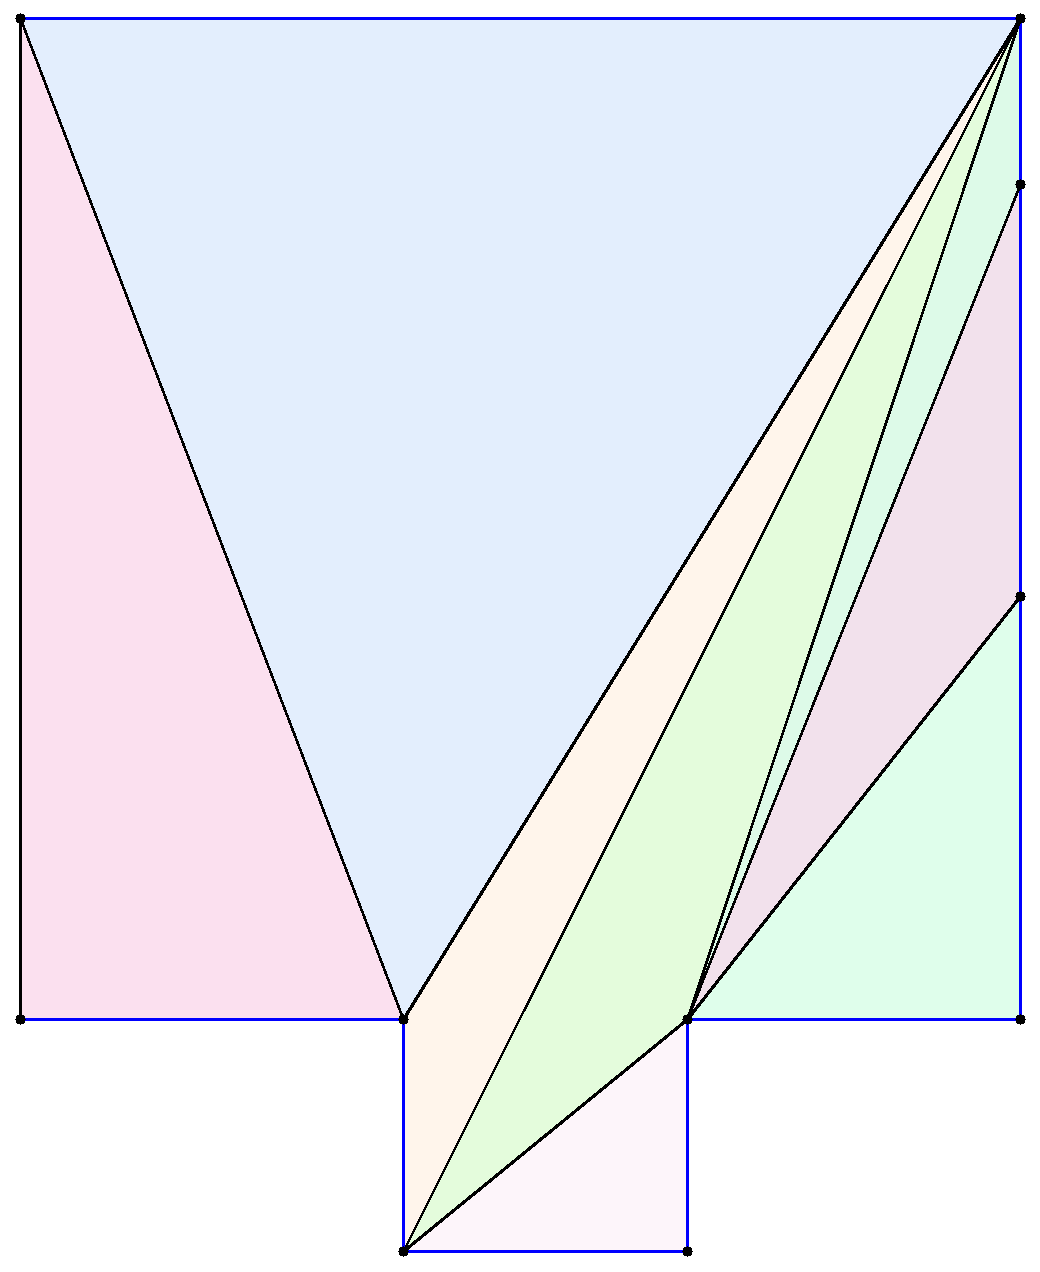
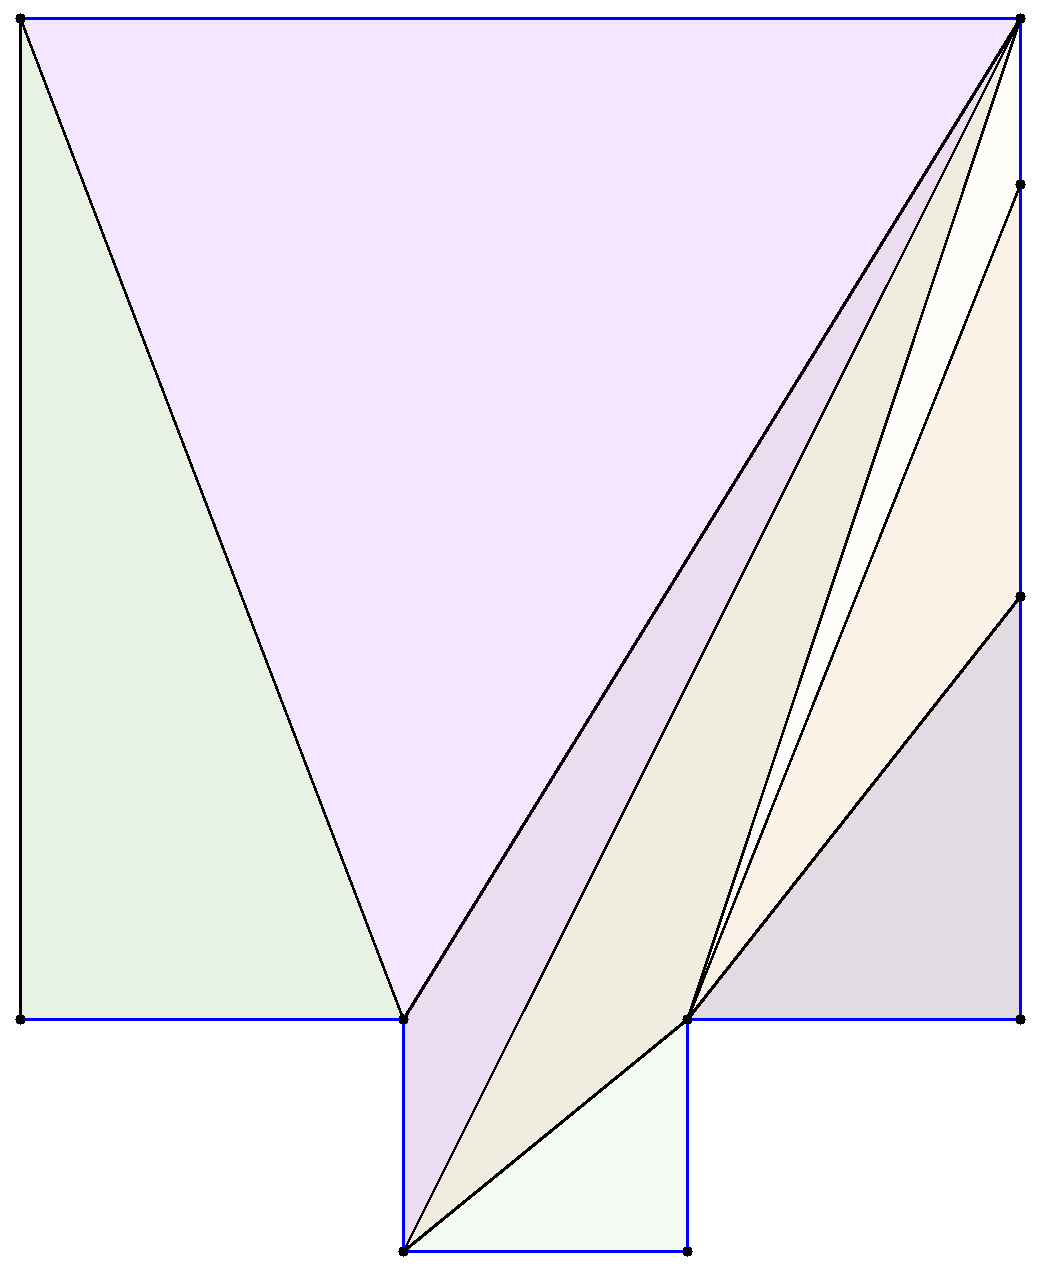
update drawing const edges

Changed region(s): [[0.3692, 0.0307, 0.9846, 0.9811]]

diff --git a/data.cpp b/data.cpp
@@ -10,12 +10,11 @@ bool Point::operator==(const Point& _p) {
 	return (this->x == _p.x) && (this->y == _p.y);
 }
 
-<<<<<<< HEAD
 std::ostream& operator<<(std::ostream& out, const Point& _p){
 	out << "(" << _p.x << ", " << _p.y << ")";
 	return out;
 }
-=======
+
 bool Point::operator!=(const Point&_p) {
 	return (this->x != _p.x) || (this->y != _p.y);
 }
@@ -109,11 +108,8 @@ bool Instance::is_in(Triangle *t, Point p){
 void Instance::triangulate(){
 	std::vector<bool> check(pts.size(), false);
 	triangulate_polygon(this->boundary);
-<<<<<<< HEAD
 	//for (Triangle * t : triangles)
 	//	std::cout << t->p[0] << ' ' << t->p[1] << ' ' << t->p[2] << std::endl;
-=======
->>>>>>> c3a05d56a08f5b413fa84dbf5c981792da04ab75
 	//std::cout << boundary.size() << " " << triangles.size() << std::endl;
 	for (int d : boundary)
 		check[d] = true;
@@ -351,8 +347,6 @@ Triangle* Instance::find_triangle(int q1, int q2){
 }
 
 MyNum turn(Point p1, Point p2, Point p3){
-<<<<<<< HEAD
-=======
 	return (p2.x - p1.x) * (p3.y - p1.y) - (p2.y - p1.y) * (p3.x - p1.x);
 }
 
@@ -412,31 +406,7 @@ MyNum turn(Point p1, Point p2, Point p3){
 // bool Polygon::intersect(Polygon P){
 // 	return true;	
 // }
->>>>>>> c3a05d56a08f5b413fa84dbf5c981792da04ab75
 
-	//return (p2.x - p1.x) * (p3.y - p1.y)- (p2.y - p1.y) * (p3.x - p1.x);
-	// cout<<p1<<p2<<p3<<endl;
-	// cout<<p3.x - p1.x<<endl;
-	// cout<<p2.y - p1.y<<endl;
-	// cout<<p3.y - p1.y<<endl;
-	// cout<<p2.x - p1.x<<endl;
-	// cout<<(p3.x - p1.x) * (p2.y - p1.y)<<endl;
-	// cout<<(p3.y - p1.y) * (p2.x - p1.x)<<endl;
-	// double p13x = (p3.x-p1.x).toDouble();
-	// double p13y = (p3.y-p1.y).toDouble();
-	// double p12x = (p2.x-p1.x).toDouble();
-	// double p12y = (p2.y-p1.y).toDouble();
-	// double maxp = max({fabs(p13x),fabs(p13y),fabs(p12x),fabs(p12y),1.});
-	// p13x/=maxp;
-	// p13y/=maxp;
-	// p12x/=maxp;
-	// p12y/=maxp;
-	// if (-p13x*p12y+p13y*p12x>0) return MyNum(1);
-	// if (-p13x*p12y+p13y*p12x<0) return MyNum(-1);
-	// else return MyNum(0);
-	//return MyNum(-p13x*p12y+p13y*p12x);
-	return -(p3.x - p1.x) * (p2.y - p1.y)+(p3.y - p1.y) * (p2.x - p1.x);
-}
 
 void Data::ReadData(){
 	cout << "--------------------ReadData--------------------" << endl;
@@ -568,7 +538,7 @@ void Data::DrawResult(){
 	std::set<std::pair<int, int>> int_edges;
 	for (std::pair<int, int> e : inst->constraints){
 		const_edges.insert(e);
-		cv::line(img, cv::Point(minw+(int)inst->pts[e.first].x.toDouble()*rad,minh-(int)inst->pts[e.first].y.toDouble()*rad), cv::Point(minw+(int)inst->pts[e.second].x.toDouble()*rad+20,minh-(int)inst->pts[e.second].y.toDouble()*rad), cv::Scalar(0,0,255), 2);
+		cv::line(img, cv::Point(minw+(int)inst->pts[e.first].x.toDouble()*rad,minh-(int)inst->pts[e.first].y.toDouble()*rad), cv::Point(minw+(int)inst->pts[e.second].x.toDouble()*rad,minh-(int)inst->pts[e.second].y.toDouble()*rad), cv::Scalar(0,0,255), 2);
 	}
 	cout<<inst->boundary.size()<<endl;
 	for (int i = 1 ; i < inst->boundary.size() ; i++){
